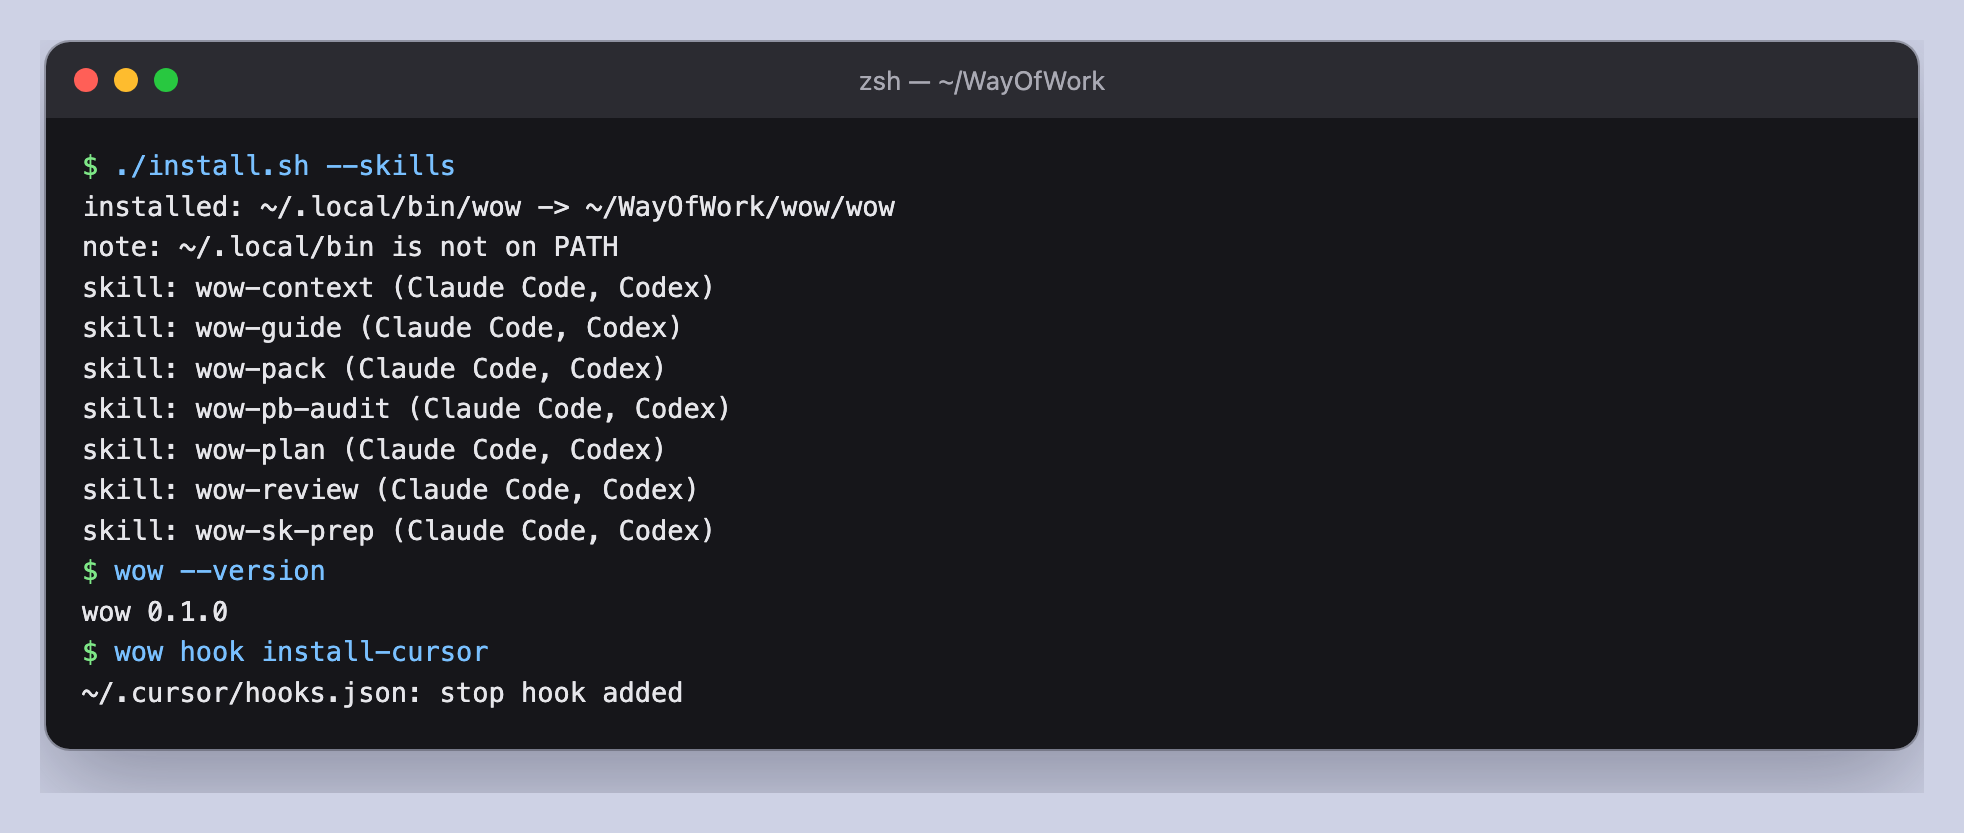
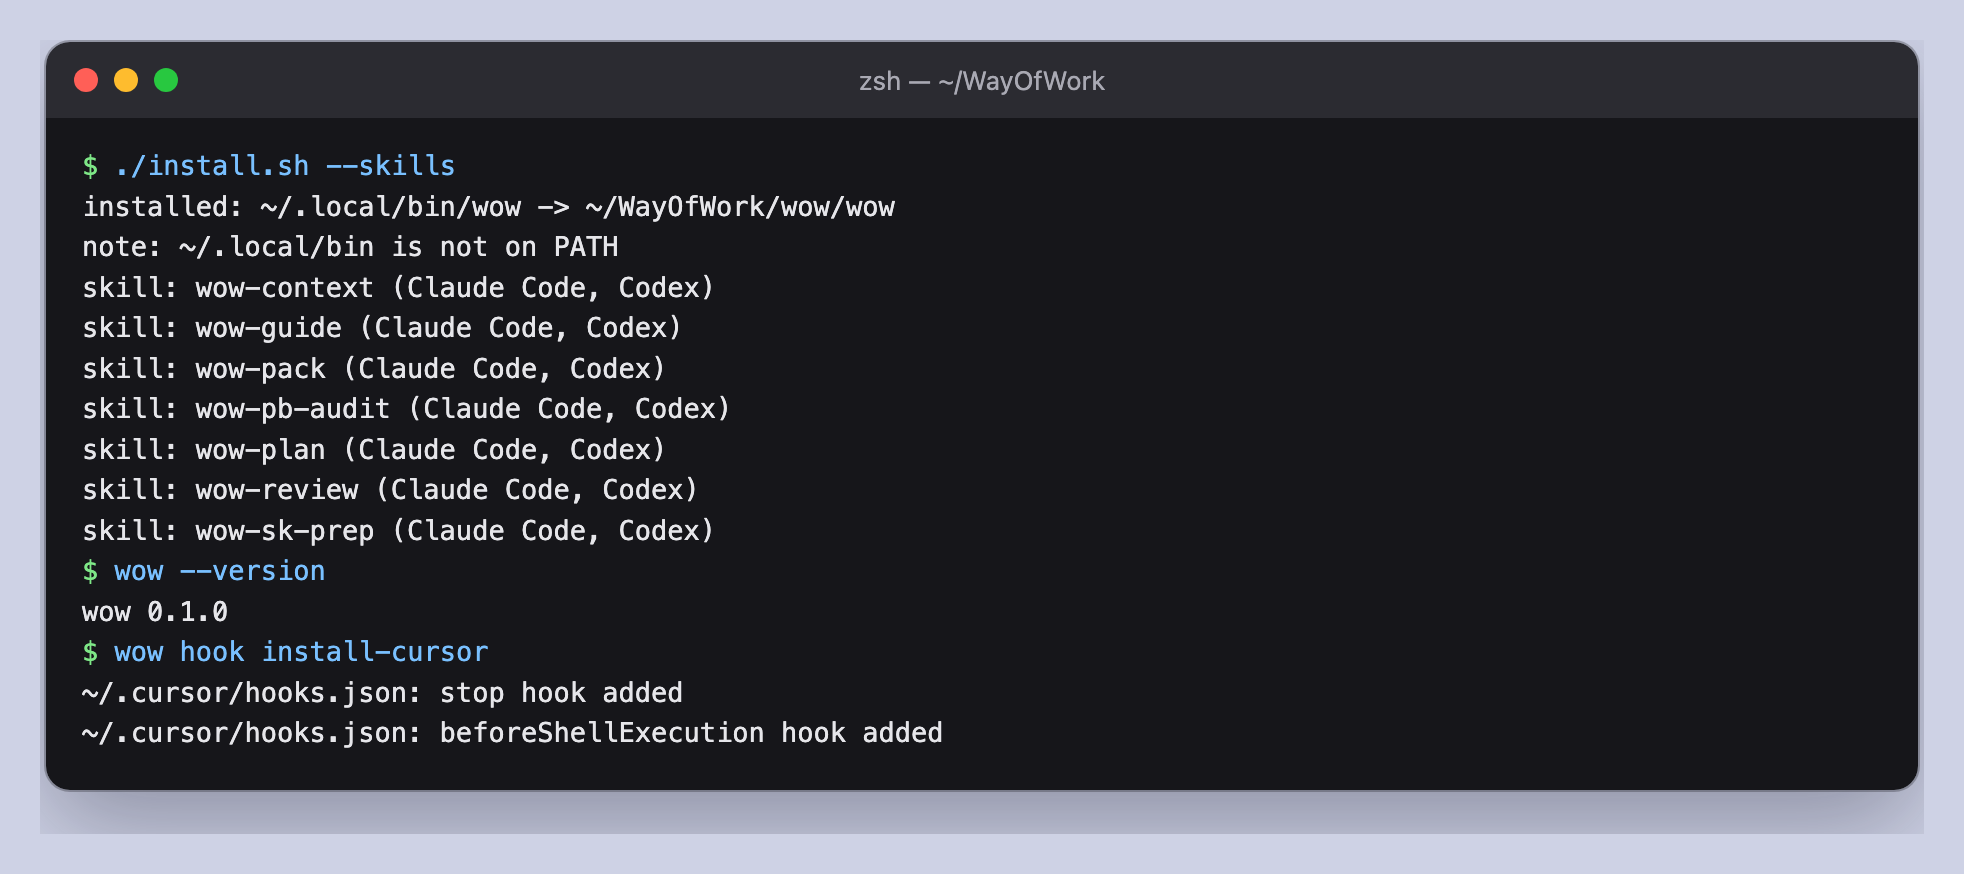
docs: install-cursor prints one line per hook it installs

Changed region(s): [[0.0311, 0.1561, 0.9939, 0.9052], [0.0311, 0.0312, 0.9628, 0.1248]]

diff --git a/docs/img/src/cursor-hook.html b/docs/img/src/cursor-hook.html
@@ -16,4 +16,5 @@ code{font:12.5px Menlo,monospace;background:#2b2b34;padding:1px 5px;border-radiu
 .cmd{background:#101014;border:1px solid #32323c;border-radius:8px;padding:10px 12px;font:12.5px Menlo,monospace;color:#79c0ff;margin:0 0 10px;white-space:pre-wrap}
 .in{margin:6px 22px 16px;border:1px solid #3a3a46;border-radius:10px;padding:10px 14px;color:#6c6c7a;font-size:13px}
 .right{flex:1;display:flex;flex-direction:column;min-width:0}</style><div class="win"><div class="bar"><div class="dots"><span class="r"></span><span class="y"></span><span class="g"></span></div><div class="ttl">~ — agente (Claude Code o Codex)</div></div><div class="main"><div class="side"><b>EXPLORER</b><div class="hot">▾ ~</div><div class="i">WayOfWork</div></div><div class="right"><div class="chat"><div class="u">Registrá los hooks de Cursor de WayOfWork (una vez por máquina)</div><div class="a"><p>Corro el comando que los agrega a <code>~/.cursor/hooks.json</code>.</p><span class="chip"><em>Ran</em> wow hook install-cursor
-<span>~/.cursor/hooks.json: stop hook added</span></span><p>Quedaron dos hooks: <code>stop</code> (modelo y tokens de cada turno de Cursor) y <code>beforeShellExecution</code> (la baranda contra comandos destructivos). El comando dice solo «stop hook added», pero agrega los dos.</p></div></div><div class="in">Pedile algo al agente…</div></div></div></div>
+<span>~/.cursor/hooks.json: stop hook added
+~/.cursor/hooks.json: beforeShellExecution hook added</span></span><p>Quedaron dos hooks: <code>stop</code> (modelo y tokens de cada turno de Cursor) y <code>beforeShellExecution</code> (la baranda contra comandos destructivos).</p></div></div><div class="in">Pedile algo al agente…</div></div></div></div>

diff --git a/docs/img/src/terminal-hook.html b/docs/img/src/terminal-hook.html
@@ -7,6 +7,10 @@
 .term{background:#16161a;color:#e6e6ea;font:13.5px/1.5 Menlo,Monaco,monospace;padding:14px 18px 18px;white-space:pre}
 .p{color:#7ee787}.c{color:#7d8590}.o{color:#e6e6ea}.k{color:#79c0ff}</style><div class="win" style="width:936px"><div class="bar"><div class="dots"><span class="r"></span><span class="y"></span><span class="g"></span></div><div class="ttl">zsh — ~</div></div><div class="term"><span class="p">$</span> <span class="k">wow hook install-cursor</span>
 <span class="o">~/.cursor/hooks.json: stop hook added</span>
+<span class="o">~/.cursor/hooks.json: beforeShellExecution hook added</span>
+<span class="p">$</span> <span class="k">wow hook install-cursor</span>
+<span class="o">~/.cursor/hooks.json: stop hook already present</span>
+<span class="o">~/.cursor/hooks.json: beforeShellExecution hook already present</span>
 <span class="p">$</span> <span class="k">echo &#x27;{&quot;command&quot;:&quot;cp -R \&quot;$SRC\&quot;/. destino/&quot;}&#x27; | wow hook cursor-shell</span>
 <span class="o">{</span>
 <span class="o">  &quot;permission&quot;: &quot;deny&quot;,</span>

diff --git a/docs/img/src/terminal-instalar.html b/docs/img/src/terminal-instalar.html
@@ -18,4 +18,5 @@
 <span class="p">$</span> <span class="k">wow --version</span>
 <span class="o">wow 0.1.0</span>
 <span class="p">$</span> <span class="k">wow hook install-cursor</span>
-<span class="o">~/.cursor/hooks.json: stop hook added</span></div></div>
+<span class="o">~/.cursor/hooks.json: stop hook added</span>
+<span class="o">~/.cursor/hooks.json: beforeShellExecution hook added</span></div></div>

diff --git a/docs/instalacion-detallada.md b/docs/instalacion-detallada.md
@@ -94,8 +94,8 @@ wow hook install-cursor    # una vez por máquina
 
 Agrega a `~/.cursor/hooks.json`, sin tocar lo que ya tengas, un hook `stop` (guarda modelo y tokens de cada turno en
 `harness/cursor-turns/` del repo que tenga `wow/`) y un hook `beforeShellExecution` (la
-[baranda](showcase.md#9-consumo-de-cursor-y-baranda-de-shell)). El comando imprime `stop hook added` aunque agregue los dos,
-y vuelve a decir `already present` si ya estaban. Los hooks guardan la ruta del clon: si lo movés, volvé a correrlo.
+[baranda](showcase.md#9-consumo-de-cursor-y-baranda-de-shell)). El comando imprime una línea por hook (`stop hook added` y
+`beforeShellExecution hook added`) y dice `already present` en cada uno si ya estaban. Los hooks guardan la ruta del clon: si lo movés, volvé a correrlo.
 `--hooks-file RUTA` apunta a otro archivo, útil para probar.
 
 ## 5. Primer recorrido

diff --git a/docs/showcase.md b/docs/showcase.md
@@ -349,7 +349,7 @@ del agente antes de que corra.
 
 ![Terminal con wow hook install-cursor y la baranda rechazando un cp con una variable sin proteger](img/terminal-hook.png)
 
-*Salida real; la respuesta JSON se reformateó con saltos de línea para que entre. La baranda recibe el comando como JSON por stdin y contesta con JSON; Cursor es quien la llama.*
+*Salida real: el comando imprime una línea por hook, y al correrlo de nuevo dice `already present` en cada una. La respuesta JSON se reformateó con saltos de línea para que entre. La baranda recibe el comando como JSON por stdin y contesta con JSON; Cursor es quien la llama.*
 
 La baranda rechaza tres cosas, y el agente recibe el motivo: un `rm -r/-f`, `cp`, `mv` o `rsync` cuya ruta empieza con
 una variable sin proteger (`"$SRC"/.`), esos mismos comandos apuntados a `/` o al home, y un `git commit` que agrega más de

diff --git a/docs/instalacion.md b/docs/instalacion.md
@@ -64,7 +64,7 @@ Una vez por máquina, pedile:
 
 Esto agrega dos hooks a `~/.cursor/hooks.json`, junto a los que ya tengas: `stop` guarda el modelo y los tokens de cada
 turno del agente de Cursor, y `beforeShellExecution` es la [baranda](showcase.md#9-consumo-de-cursor-y-baranda-de-shell)
-contra comandos destructivos. El comando imprime solo `stop hook added`, pero agrega los dos. Los hooks apuntan a la
+contra comandos destructivos. El comando imprime una línea por hook (`stop hook added` y `beforeShellExecution hook added`). Los hooks apuntan a la
 ruta de tu clon: si lo movés, volvé a correr el comando.
 
 ## 3. Credenciales de Jira
